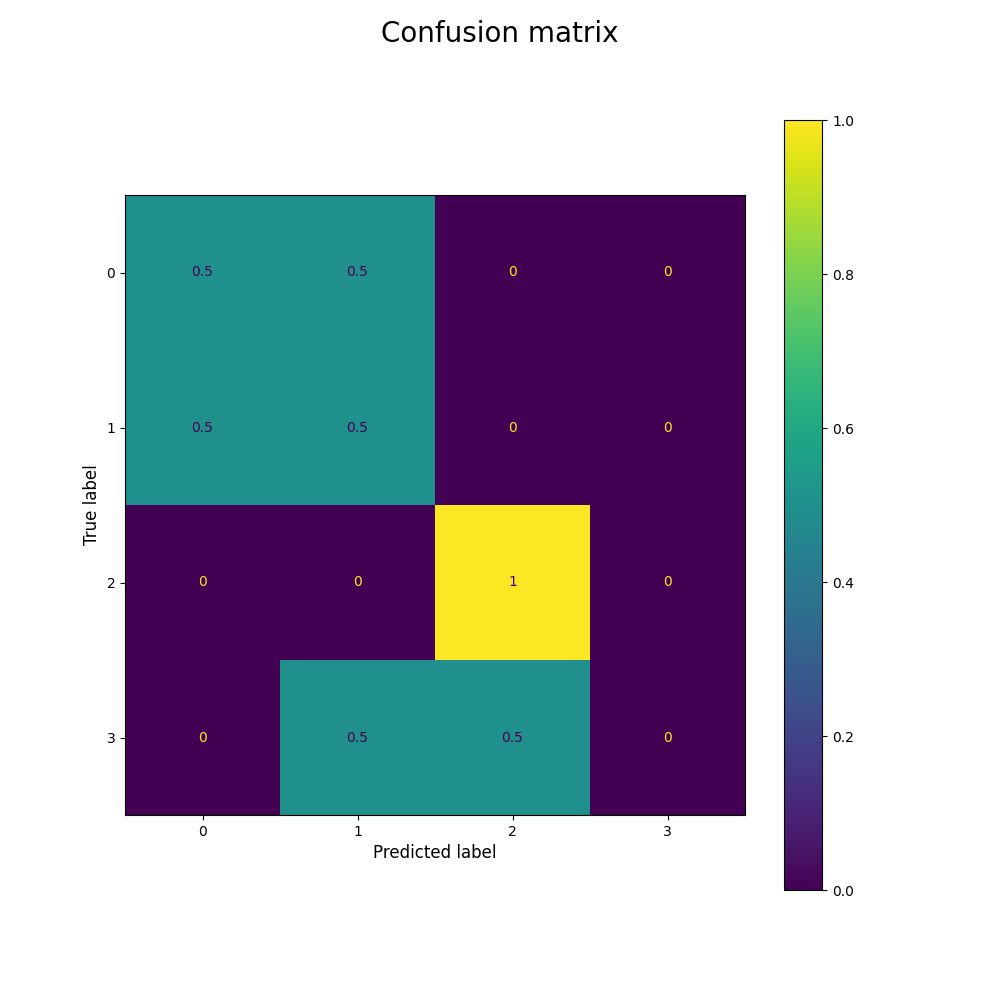
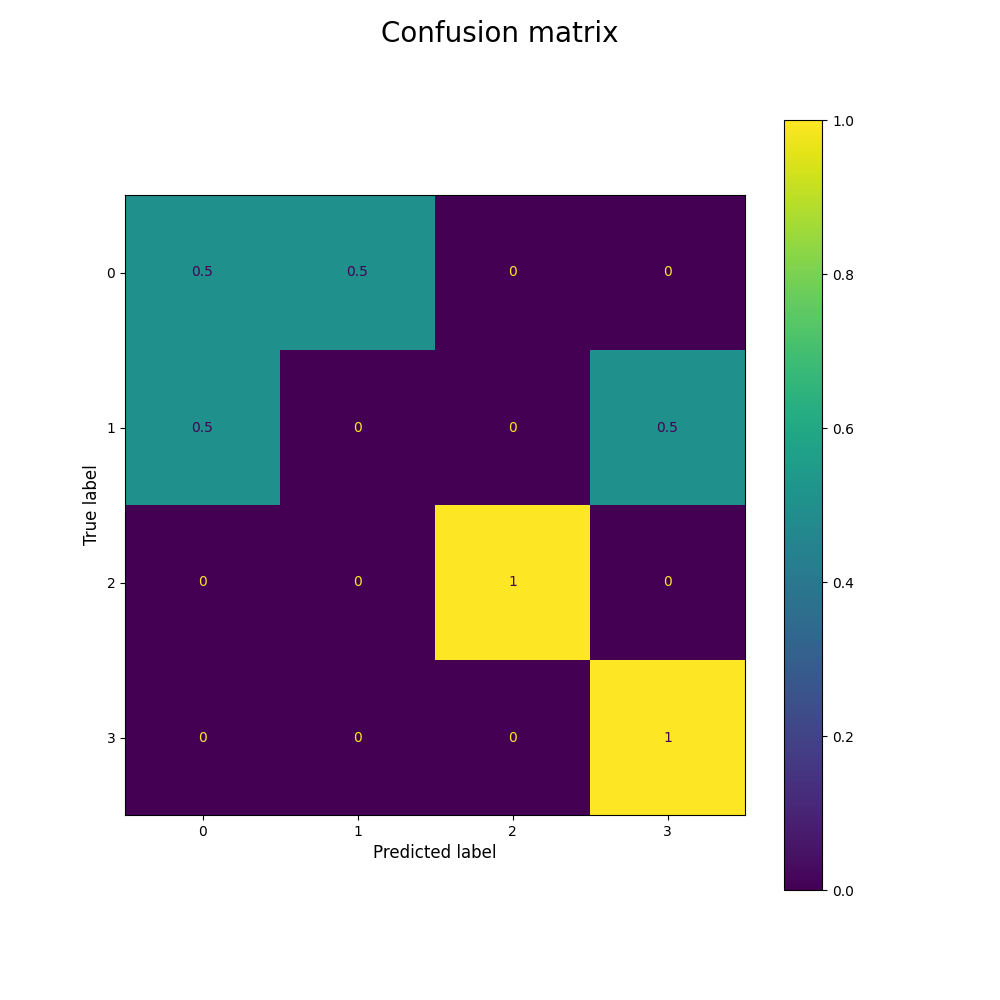
Improve knn performance

Changed region(s): [[0.279, 0.651, 0.744, 0.837], [0.589, 0.341, 0.744, 0.527], [0.279, 0.341, 0.434, 0.527]]

diff --git a/main.py b/main.py
@@ -36,7 +36,7 @@ if __name__ == '__main__':
     width, height = 128, 256
     train_features, train_images_hog = features.extract_features_hog(dataset_train_mask_contour, width, height, True)
     test_features, test_images_hog = features.extract_features_hog(dataset_test_mask_contour, width, height, True)
-    print(np.shape(train_features), np.shape(test_features))
+    # print(np.shape(train_features), np.shape(test_features))
 
     # random data
     train_features, labels_train = shuffle(train_features, labels_train)
@@ -52,4 +52,4 @@ if __name__ == '__main__':
     # classification.kmeans_classification(train_features, labels_train, test_features, labels_test)
 
     # MLP
-    # classification.mlp_classification(train_features, labels_train, test_features, labels_test)
+    classification.mlp_classification(train_features, labels_train, test_features, labels_test)

diff --git a/src/features.py b/src/features.py
@@ -13,7 +13,7 @@ def extract_features_hog(dataset, width, height, example=False):
         # set same dimensions and HOG will return same dimension of features
         image = resize(image, [height, width])
 
-        fd, hog_image = hog(image, orientations=4, pixels_per_cell=(4, 4),
+        fd, hog_image = hog(image, orientations=4, pixels_per_cell=(16, 8),
                             cells_per_block=(2, 2), visualize=True) #, channel_axis=-1
 
         images_hog.append(hog_image)

diff --git a/src/classification.py b/src/classification.py
@@ -110,7 +110,7 @@ def kmeans_classification(train_features, labels_train, test_features, labels_te
 def mlp_classification(train_features, labels_train, test_features, labels_test):
     # MLP
     classifier = MLPClassifier(
-        random_state=1,
+        random_state=100,
         max_iter=300,
         hidden_layer_sizes=[2000, 800, 400, 40],
         activation='relu',
